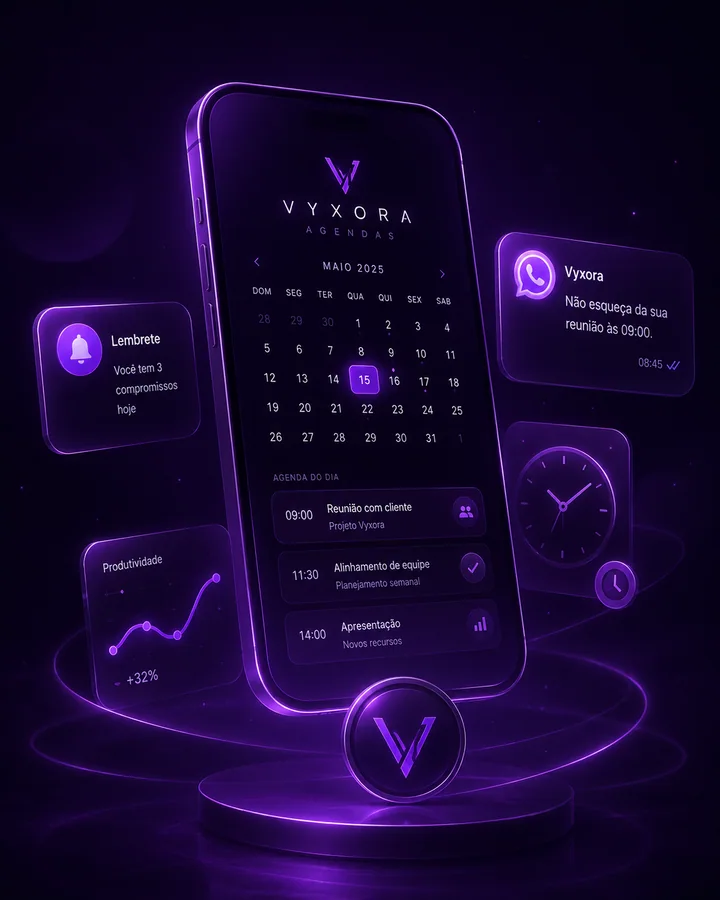
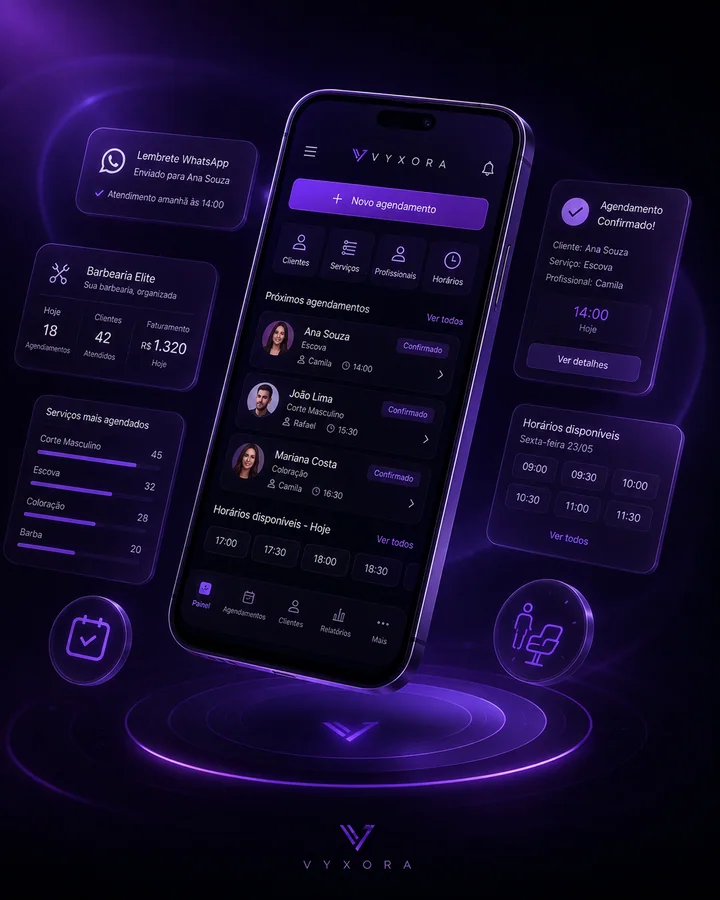
Troca arte do login por sistema de agendamentos (#41)

diff --git a/index.html b/index.html
@@ -368,7 +368,7 @@
         <button type="button" class="auth-mobile-skip" onclick="abrirLoginPelasBoasVindas()">Entrar</button>
       </div>
     </section>
-    <img class="auth-mobile-screen-art auth-mobile-login-art" src="vyxora-mobile-login.webp?v=1" alt="Agenda VyXora organizada no celular">
+    <img class="auth-mobile-screen-art auth-mobile-login-art" src="vyxora-mobile-login.webp?v=2" alt="Sistema profissional de agendamentos VyXora no celular">
     <button class="auth-close" onclick="closeAuth()">✕</button>
     <div class="auth-panel-left auth-desktop-message" aria-hidden="true">
       <div class="auth-desktop-message-copy auth-message-login">
